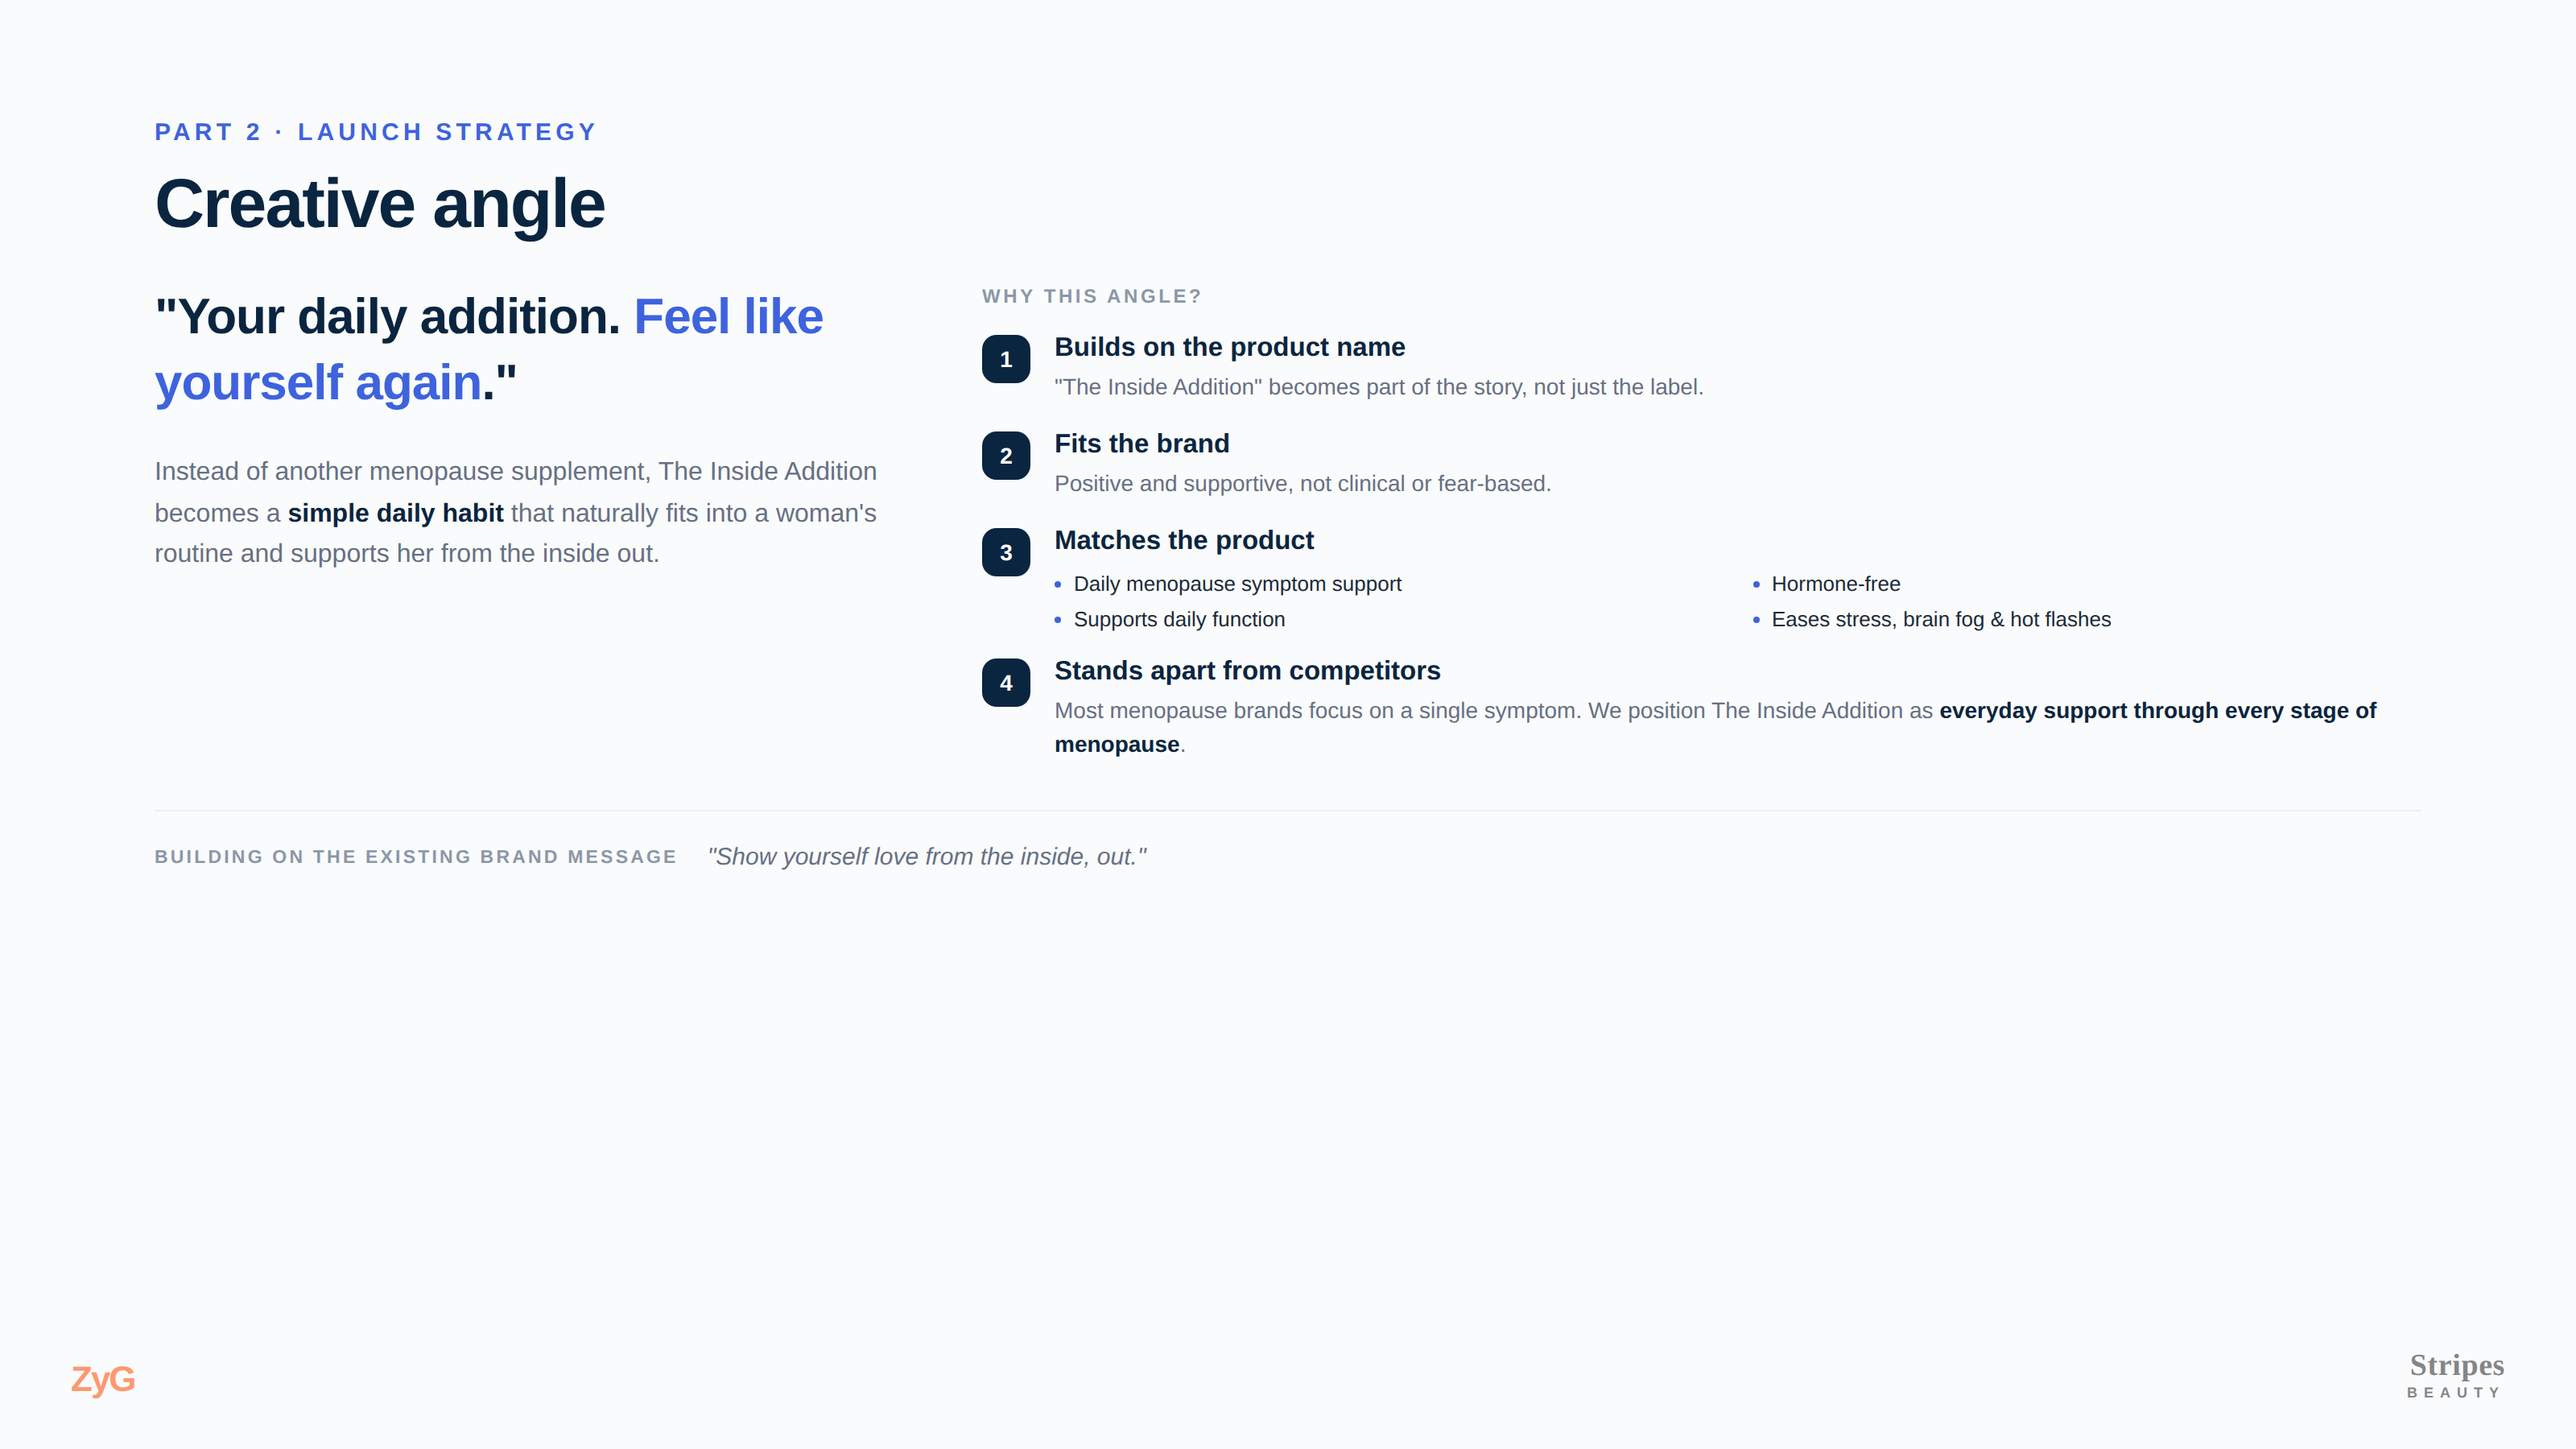
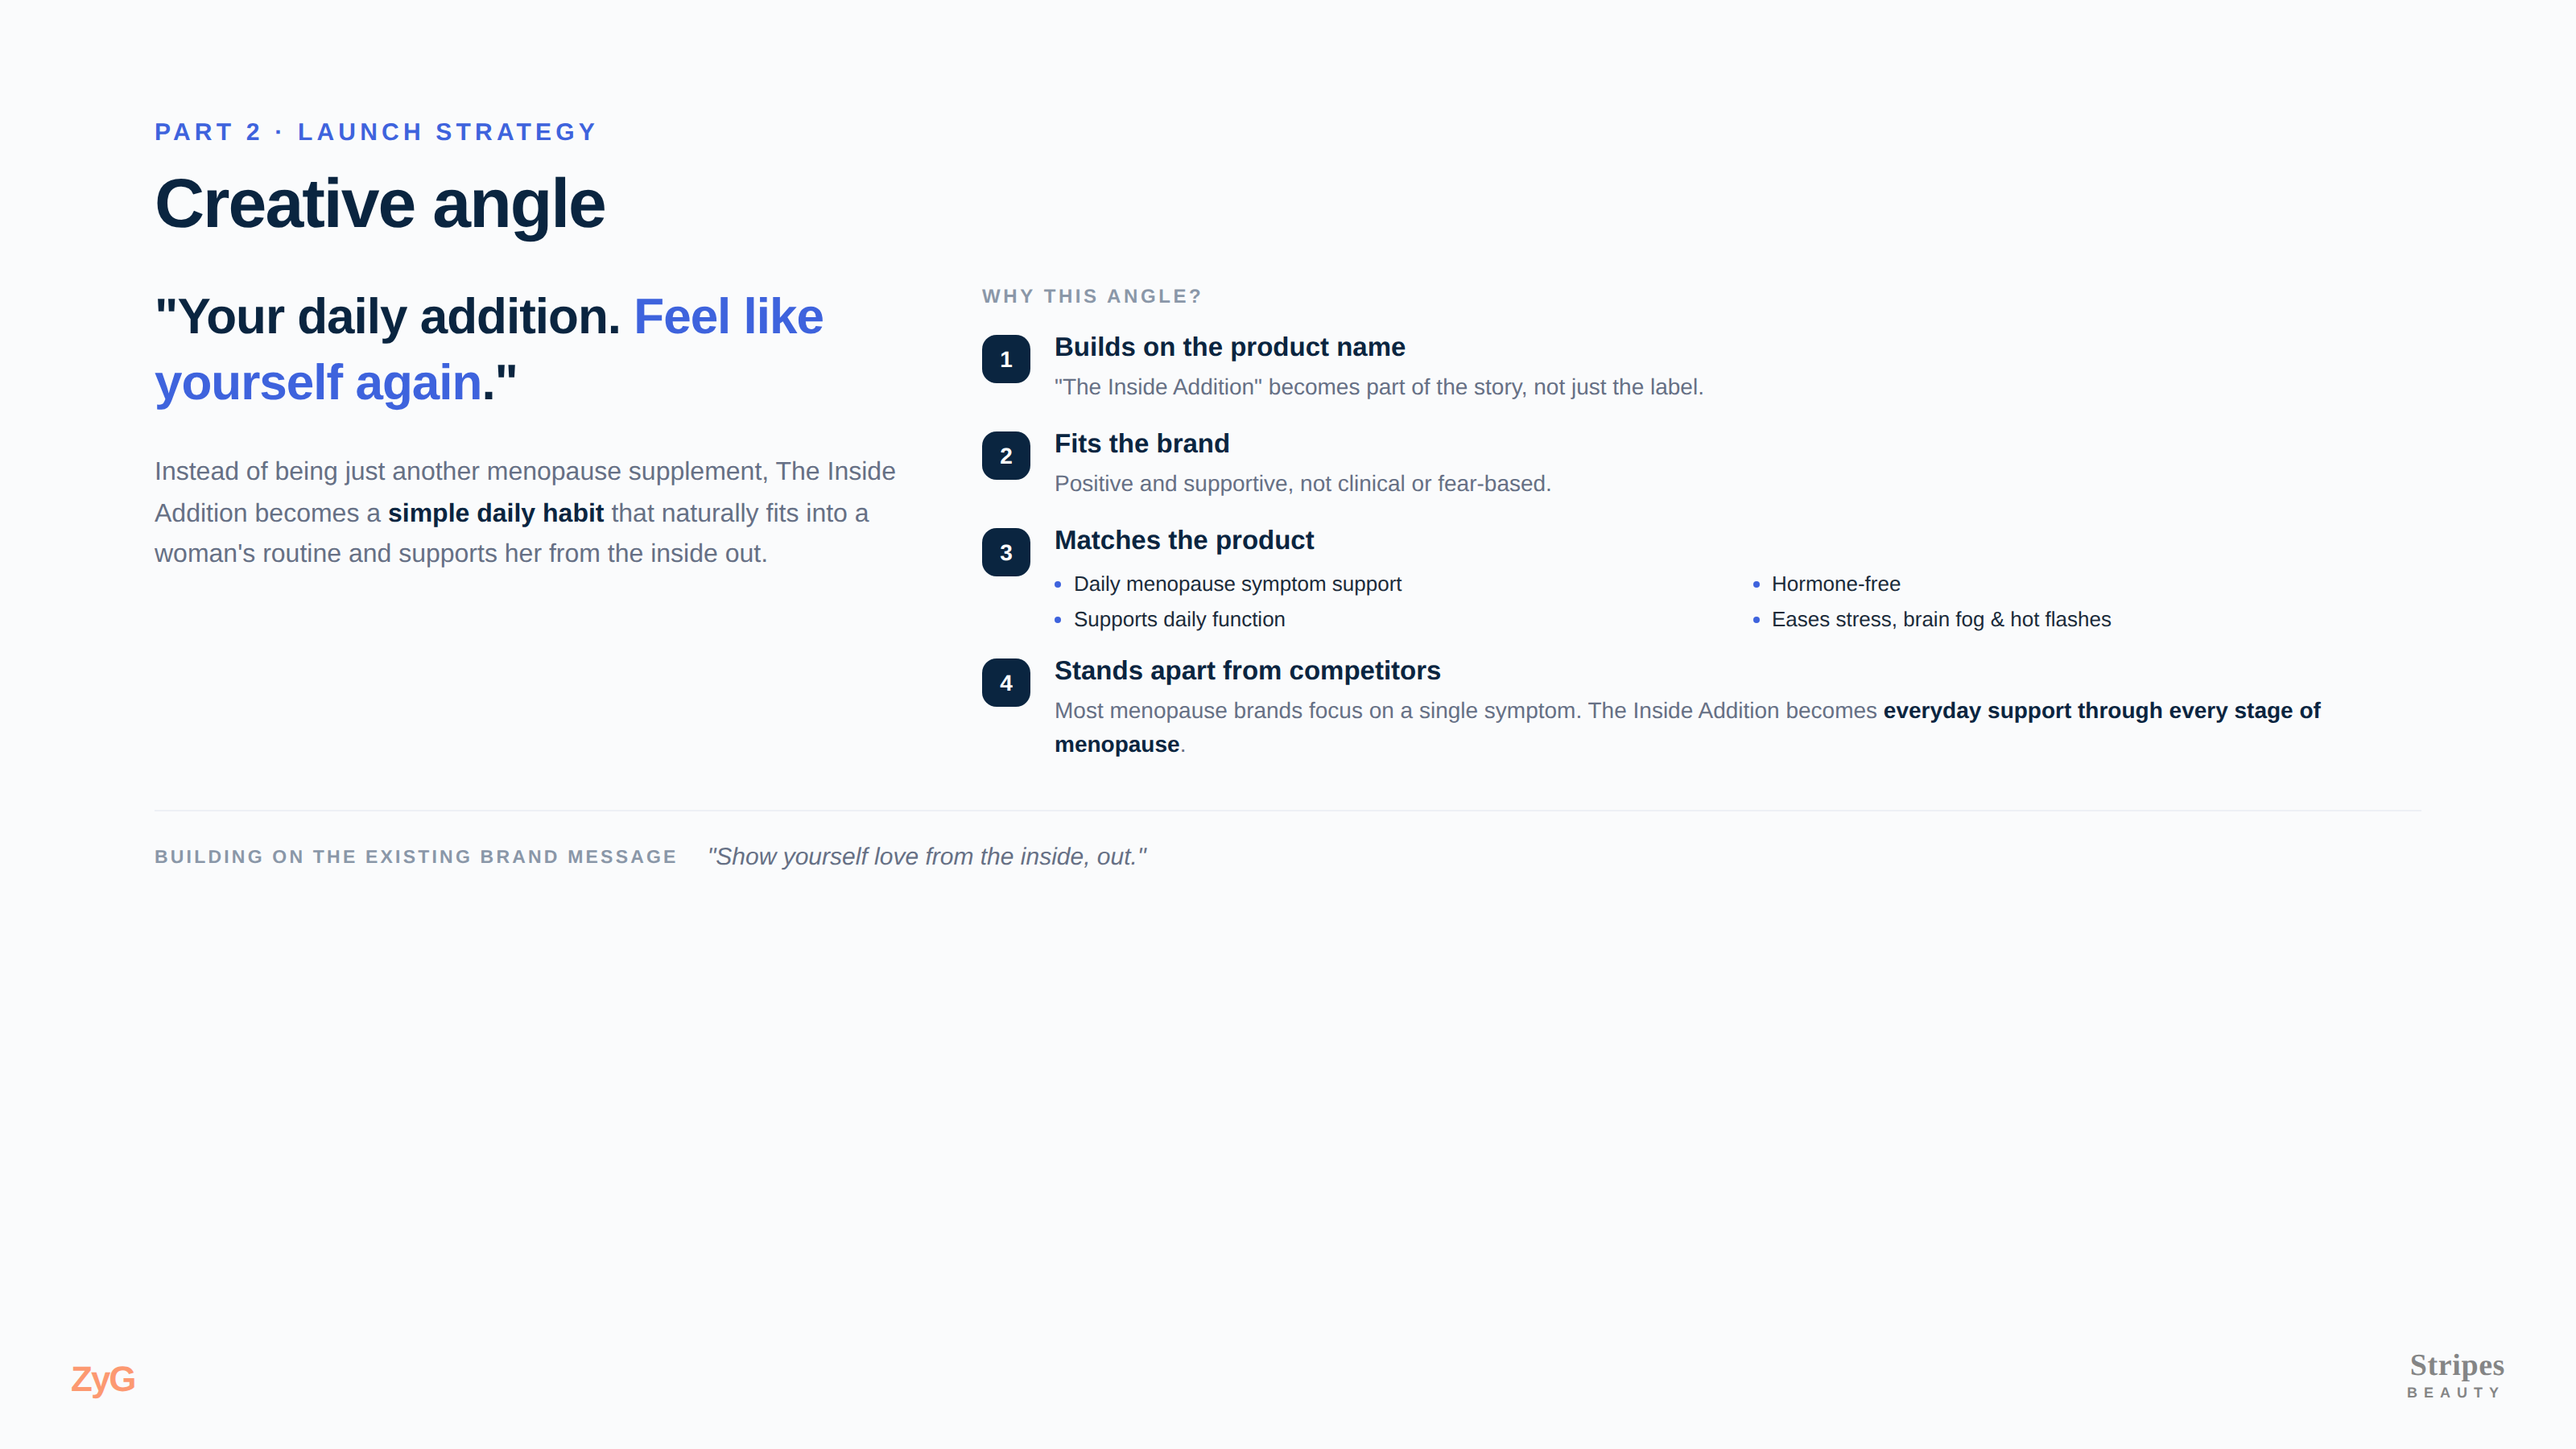
Part 2 creative angle: copy tweaks to positioning + competitor point
Claude-Session: https://claude.ai/code/session_01GoAG3ySswQXo2H1hh5EwTk

Changed region(s): [[0.0625, 0.3111, 0.3438, 0.4044], [0.625, 0.4667, 0.9062, 0.4978]]

diff --git a/diagrams/slides/p2-01-creative-angle.html b/diagrams/slides/p2-01-creative-angle.html
@@ -33,7 +33,7 @@
   <div class="cols">
     <div class="left">
       <div class="angle">"Your daily addition. <span class="q">Feel like yourself again</span>."</div>
-      <div class="support">Instead of another menopause supplement, The Inside Addition becomes a <b>simple daily habit</b> that naturally fits into a woman's routine and supports her from the inside out.</div>
+      <div class="support">Instead of being just another menopause supplement, The Inside Addition becomes a <b>simple daily habit</b> that naturally fits into a woman's routine and supports her from the inside out.</div>
     </div>
 
     <div class="right">
@@ -61,7 +61,7 @@
         </div>
         <div class="pt">
           <div class="n">4</div>
-          <div><div class="h">Stands apart from competitors</div><div class="t">Most menopause brands focus on a single symptom. We position The Inside Addition as <b>everyday support through every stage of menopause</b>.</div></div>
+          <div><div class="h">Stands apart from competitors</div><div class="t">Most menopause brands focus on a single symptom. The Inside Addition becomes <b>everyday support through every stage of menopause</b>.</div></div>
         </div>
       </div>
     </div>
